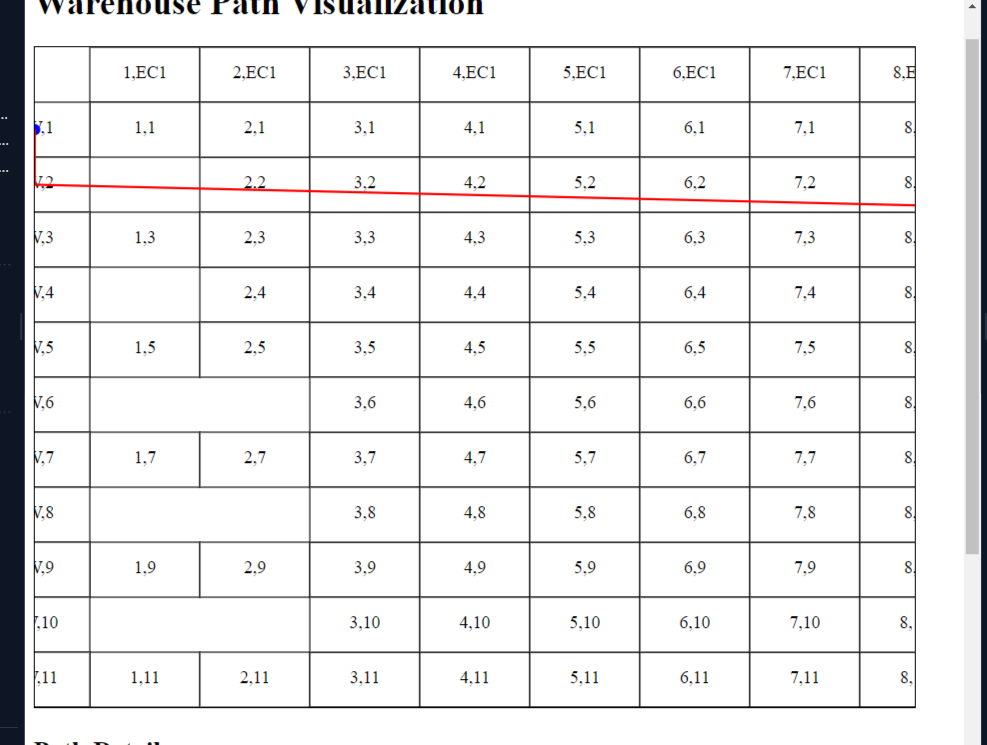
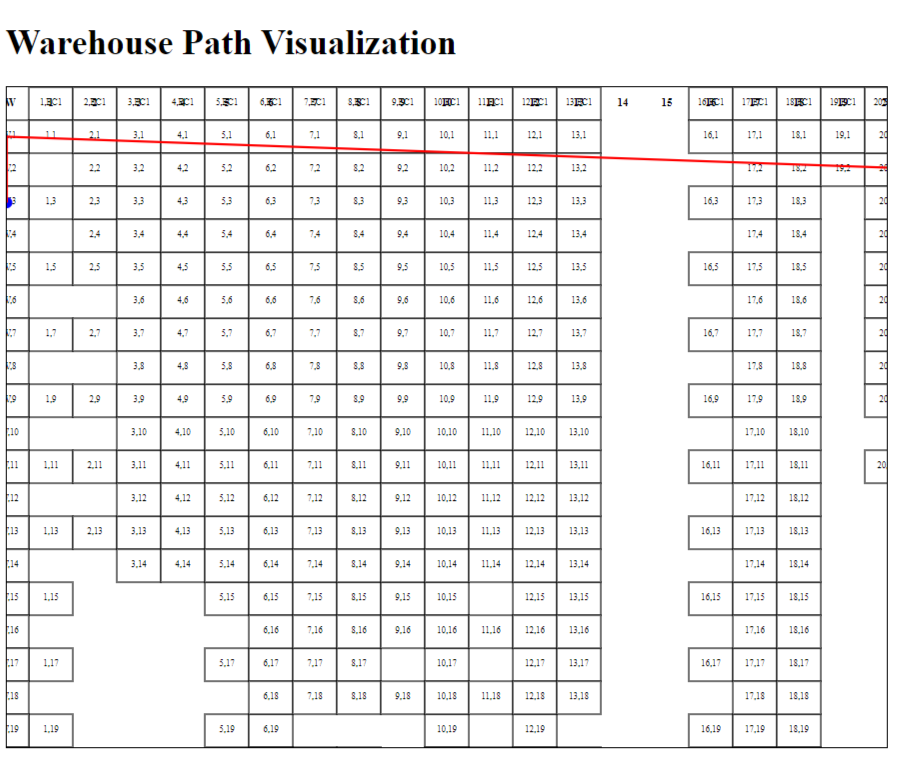
Agent query: Please check if the warehouse visualization now correctly displays all aisles from 1 to 63, including non-integer values like 1.5, as well as FW and BW. Also, verify if the path generation works for a pallet list that includes FW, BW, and non-integer aisle locations. Test with the follo

Changed region(s): [[0.0, 0.0, 1.0, 1.0], [0.1515, 0.9879, 0.1818, 1.0], [0.0909, 0.9879, 0.1212, 1.0]]

diff --git a/app.py b/app.py
@@ -7,43 +7,35 @@ def generate_warehouse_svg(warehouse_layout):
     svg = []
     aisle_positions = {}
     max_aisle = 63
-    aisle_width = 40  # Reduced width to fit all aisles
-    bay_height = 30  # Reduced height for better fit
+    aisle_width = 20  # Reduced width to fit all aisles
+    bay_height = 15  # Reduced height for better fit
     svg_width = (max_aisle + 2) * aisle_width  # +2 for FW and BW
-    svg_height = 1800  # Increased height to accommodate more bays
+    svg_height = 2000  # Increased height to accommodate more bays
 
-    # Calculate x-positions for all aisles
+    # Calculate x-positions for all aisles, including non-integer values
     for aisle in range(1, max_aisle + 1):
         aisle_positions[str(aisle)] = aisle * aisle_width
+        aisle_positions[f"{aisle}.5"] = (aisle * aisle_width) + (aisle_width // 2)
 
-    # Special handling for FW, BW, and non-integer aisles
+    # Special handling for FW and BW
     aisle_positions['FW'] = 0
     aisle_positions['BW'] = (max_aisle + 1) * aisle_width
-    
-    for (aisle, bay) in warehouse_layout.keys():
-        if '.' in aisle:
-            main_aisle = int(float(aisle))
-            aisle_positions[aisle] = main_aisle * aisle_width + aisle_width // 2
 
     for (aisle, bay), info in warehouse_layout.items():
         x = aisle_positions[aisle]
         if bay.isdigit():
             y = int(bay) * bay_height
-        elif bay == 'EC1':
-            y = 0
-        elif bay == 'EC2':
-            y = svg_height - bay_height
-        elif bay == 'EC3':
+        elif bay in ['EC1', 'EC2', 'EC3']:
             y = svg_height // 2
         else:
             y = svg_height // 2  # Default position for unknown bays
 
         svg.append(f'<rect x="{x-aisle_width//2}" y="{y}" width="{aisle_width}" height="{bay_height}" class="bay" />')
-        svg.append(f'<text x="{x}" y="{y+bay_height//2}" text-anchor="middle" dominant-baseline="middle" font-size="8">{aisle},{bay}</text>')
+        svg.append(f'<text x="{x}" y="{y+bay_height//2}" text-anchor="middle" dominant-baseline="middle" font-size="6">{aisle},{bay}</text>')
 
     # Add aisle labels at the top
     for aisle, x in aisle_positions.items():
-        svg.append(f'<text x="{x}" y="10" text-anchor="middle" dominant-baseline="hanging" font-size="10" font-weight="bold">{aisle}</text>')
+        svg.append(f'<text x="{x}" y="10" text-anchor="middle" dominant-baseline="hanging" font-size="8" font-weight="bold">{aisle}</text>')
 
     return f'<svg width="{svg_width}" height="{svg_height}" viewBox="0 0 {svg_width} {svg_height}">' + ''.join(svg) + '</svg>'
 
@@ -51,52 +43,40 @@ def generate_path_svg(path, warehouse_layout):
     svg = []
     aisle_positions = {}
     max_aisle = 63
-    aisle_width = 40  # Reduced width to fit all aisles
-    bay_height = 30  # Reduced height for better fit
+    aisle_width = 20  # Reduced width to fit all aisles
+    bay_height = 15  # Reduced height for better fit
     svg_width = (max_aisle + 2) * aisle_width  # +2 for FW and BW
-    svg_height = 1800
+    svg_height = 2000
 
-    # Calculate x-positions for all aisles
+    # Calculate x-positions for all aisles, including non-integer values
     for aisle in range(1, max_aisle + 1):
         aisle_positions[str(aisle)] = aisle * aisle_width
+        aisle_positions[f"{aisle}.5"] = (aisle * aisle_width) + (aisle_width // 2)
 
-    # Special handling for FW, BW, and non-integer aisles
+    # Special handling for FW and BW
     aisle_positions['FW'] = 0
     aisle_positions['BW'] = (max_aisle + 1) * aisle_width
-    
-    for (aisle, bay) in warehouse_layout.keys():
-        if '.' in aisle:
-            main_aisle = int(float(aisle))
-            aisle_positions[aisle] = main_aisle * aisle_width + aisle_width // 2
 
     for i, step in enumerate(path):
         aisle, bay = step['Move to']
         x = aisle_positions[aisle]
         if bay.isdigit():
             y = int(bay) * bay_height + bay_height // 2
-        elif bay == 'EC1':
-            y = bay_height // 2
-        elif bay == 'EC2':
-            y = svg_height - bay_height // 2
-        elif bay == 'EC3':
+        elif bay in ['EC1', 'EC2', 'EC3']:
             y = svg_height // 2
         else:
             y = svg_height // 2  # Default position for unknown bays
 
         if i == 0:
-            svg.append(f'<circle cx="{x}" cy="{y}" r="5" class="start" />')
+            svg.append(f'<circle cx="{x}" cy="{y}" r="3" class="start" />')
         elif i == len(path) - 1:
-            svg.append(f'<circle cx="{x}" cy="{y}" r="5" class="end" />')
+            svg.append(f'<circle cx="{x}" cy="{y}" r="3" class="end" />')
         if i > 0:
             prev_aisle, prev_bay = path[i-1]['Move to']
             prev_x = aisle_positions[prev_aisle]
             if prev_bay.isdigit():
                 prev_y = int(prev_bay) * bay_height + bay_height // 2
-            elif prev_bay == 'EC1':
-                prev_y = bay_height // 2
-            elif prev_bay == 'EC2':
-                prev_y = svg_height - bay_height // 2
-            elif prev_bay == 'EC3':
+            elif prev_bay in ['EC1', 'EC2', 'EC3']:
                 prev_y = svg_height // 2
             else:
                 prev_y = svg_height // 2  # Default position for unknown bays
